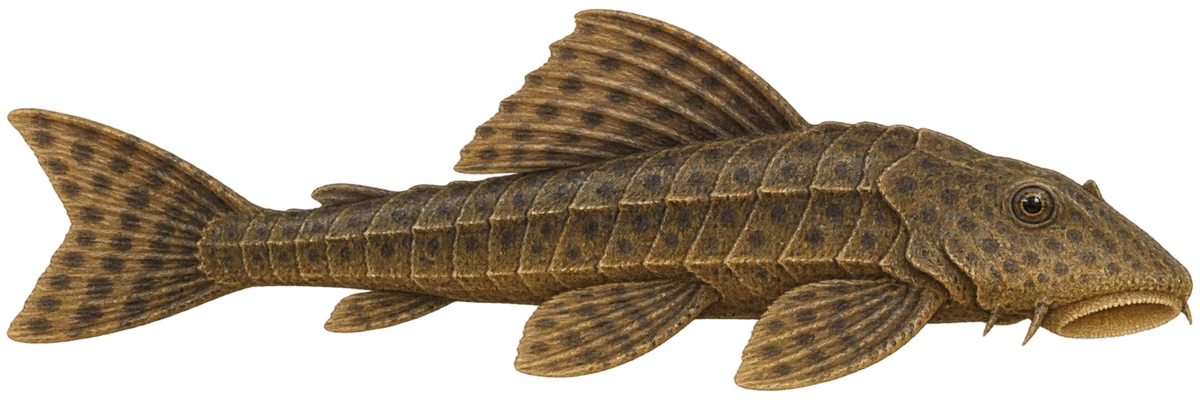
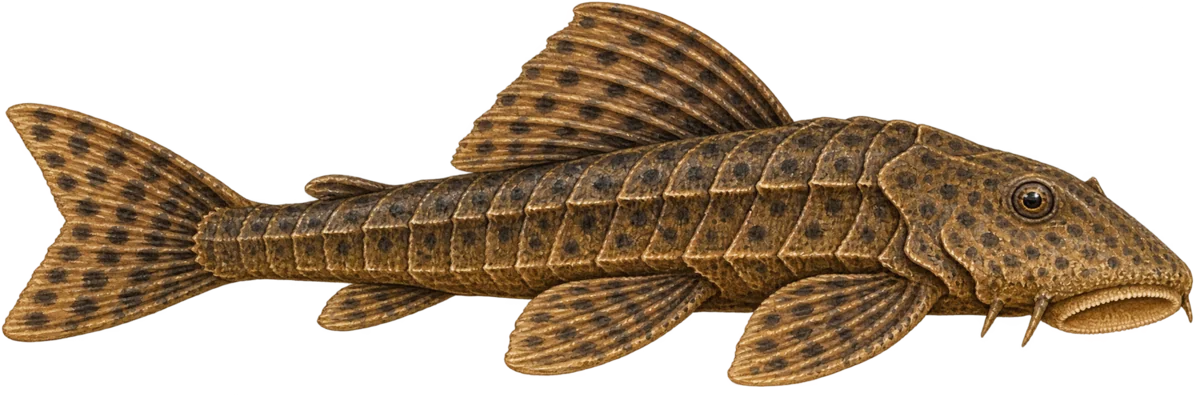
Remove fundos e anima caudas e nado

Changed region(s): [[0.0, 0.0, 1.0, 1.0]]

diff --git a/2026-11-06-lagoa-viva.html b/2026-11-06-lagoa-viva.html
@@ -98,27 +98,16 @@ ctx.save();
   }
   ctx.fillStyle=i%2?'#52764b':'#698751';ctx.beginPath();ctx.ellipse(x+lean,base-h*.72,3.2,1.4,-.2,0,Math.PI*2);ctx.fill();
  }
- // Pescadores desenhados por inteiro na margem, com pernas, calçado e vara apoiada na mão.
+ // Um pescador aparece para todas as espécies; na rota da traíra, três pescadores aumentam a pressão de pesca.
  const spots=anglerSiteFractions(),shirts=['#8b7654','#536f65','#9a694b'],q=clamp(W/300,.9,1.35);
- for(let i=0;i<spots.length;i++){const x=worldW*spots[i]-cameraX,ground=H*.15;if(x<-55||x>W+55)continue;
-  ctx.save();ctx.translate(x,ground);ctx.scale(q,q);
-  ctx.fillStyle='rgba(25,54,44,.25)';ctx.beginPath();ctx.ellipse(0,2,14,3.4,0,0,Math.PI*2);ctx.fill();
-  // A vara parte da mão e acompanha o arremesso do anzol.
-  ctx.strokeStyle='#594a36';ctx.lineWidth=2.2;ctx.lineCap='round';ctx.beginPath();ctx.moveTo(5,-17);ctx.quadraticCurveTo(17,-32,29,-48);ctx.stroke();
-  // Pernas compridas e calças ficam recortadas contra a margem clara.
-  ctx.strokeStyle='#384f48';ctx.lineWidth=3.6;ctx.beginPath();ctx.moveTo(-3,-7);ctx.lineTo(-4,-1);ctx.lineTo(-8,1);ctx.moveTo(3,-7);ctx.lineTo(5,-1);ctx.lineTo(9,1);ctx.stroke();
-  ctx.strokeStyle='#d2b992';ctx.lineWidth=1.3;ctx.beginPath();ctx.moveTo(-8,1);ctx.lineTo(-4,1);ctx.moveTo(5,1);ctx.lineTo(10,1);ctx.stroke();
-  // Camisa, braços e mãos em posição de pesca.
-  ctx.fillStyle=shirts[i];ctx.beginPath();ctx.roundRect(-7,-23,14,17,4);ctx.fill();
-  ctx.strokeStyle='#c99570';ctx.lineWidth=2.7;ctx.lineCap='round';ctx.beginPath();ctx.moveTo(-6,-19);ctx.lineTo(-9,-13);ctx.lineTo(-7,-11);ctx.moveTo(5,-19);ctx.lineTo(7,-17);ctx.stroke();
-  ctx.fillStyle='#c99570';ctx.beginPath();ctx.arc(7,-17,1.8,0,Math.PI*2);ctx.fill();
-  // Pescoço, rosto, orelha e chapéu.
-  ctx.fillStyle='#bb8663';ctx.fillRect(-2.5,-26,4,4);
-  ctx.fillStyle='#c99570';ctx.beginPath();ctx.ellipse(-1,-30,5.2,6,0,0,Math.PI*2);ctx.fill();
-  ctx.fillStyle='#344b43';ctx.beginPath();ctx.arc(-1,-31,5.2,Math.PI,Math.PI*2);ctx.fill();
-  ctx.fillStyle=i===1?'#d5bd8a':'#a17d54';ctx.beginPath();ctx.ellipse(-1,-32,6.2,2.2,0,Math.PI,Math.PI*2);ctx.fill();ctx.fillRect(-7,-31,12,1.6);
-  ctx.fillStyle='#503c30';ctx.beginPath();ctx.arc(1,-30,0.7,0,Math.PI*2);ctx.fill();
-  ctx.restore()
+ for(let i=0;i<spots.length;i++){const x=worldW*spots[i]-cameraX,ground=H*.12;if(x<-55||x>W+55)continue;
+  ctx.save();ctx.translate(x,ground);ctx.scale(q,q);ctx.fillStyle='rgba(25,54,44,.24)';ctx.beginPath();ctx.ellipse(0,2,12,3,0,0,Math.PI*2);ctx.fill();
+  // A vara e o anzol ficam alinhados: o fio só aparece durante o arremesso.
+  ctx.strokeStyle='#594a36';ctx.lineWidth=2.2;ctx.lineCap='round';ctx.beginPath();ctx.moveTo(5,-18);ctx.lineTo(29,-48);ctx.stroke();
+  ctx.fillStyle='#374e48';ctx.beginPath();ctx.arc(-1,-27,5,0,Math.PI*2);ctx.fill();
+  ctx.fillStyle=i===1?'#d5bd8a':'#a17d54';ctx.beginPath();ctx.ellipse(-1,-29,5.6,2.5,0,Math.PI,Math.PI*2);ctx.fill();ctx.fillRect(-7,-28,12,1.6);
+  ctx.fillStyle=shirts[i];ctx.beginPath();ctx.roundRect(-7,-22,14,16,4);ctx.fill();
+  ctx.strokeStyle='#d5bd8a';ctx.lineWidth=2.2;ctx.beginPath();ctx.moveTo(4,-19);ctx.lineTo(7,-16);ctx.lineTo(5,-12);ctx.moveTo(-4,-6);ctx.lineTo(-6,0);ctx.moveTo(3,-6);ctx.lineTo(5,0);ctx.stroke();ctx.restore()
  }
  // Pequenas folhas flutuantes junto à margem, sem formar uma cerca repetitiva.
  for(let i=0;i<6;i++){const x=(i*W/5+W*.08+time*3-cameraX*.62%W+W)%W,y=H*(.177+(i%2)*.004);ctx.fillStyle=i%2?'#477d63':'#578a68';ctx.beginPath();ctx.ellipse(x,y,7,2.5,Math.sin(time+i)*.12,0,Math.PI*2);ctx.fill();ctx.strokeStyle='#b8d7a1';ctx.lineWidth=.7;ctx.beginPath();ctx.moveTo(x,y);ctx.lineTo(x+2,y-1);ctx.stroke()}
@@ -230,26 +219,35 @@ const fishArt={lambari:new Image(),traira:new Image(),cascudo:new Image()};
 const fishArtPaths={lambari:'game-assets/lambari.webp',traira:'game-assets/traira.webp',cascudo:'game-assets/cascudo.webp'};
 const birdArt=new Image();birdArt.decoding='async';birdArt.src='game-assets/martim-pescador.webp';
 for(const [kind,art] of Object.entries(fishArt)){art.decoding='async';art.src=fishArtPaths[kind]}
+function drawAnimatedTail(context,x,y,w,h,kind,phase){
+ context.save();context.translate(x,y);context.rotate(Math.sin(phase)*.52);
+ const colors=kind==='lambari'?['#dc7951','#efaa77','#bb7154']:kind==='traira'?['#59634a','#89906b','#4b5742']:['#554d3d','#897b5e','#464338'];
+ const fin=context.createLinearGradient(-w*.30,0,0,0);fin.addColorStop(0,colors[0]);fin.addColorStop(.6,colors[1]);fin.addColorStop(1,colors[2]);
+ context.beginPath();
+ if(kind==='traira'){
+  context.moveTo(0,0);context.quadraticCurveTo(-w*.08,-h*.14,-w*.19,-h*.29);context.quadraticCurveTo(-w*.24,-h*.36,-w*.25,-h*.19);context.quadraticCurveTo(-w*.26,-h*.03,-w*.22,0);context.quadraticCurveTo(-w*.26,h*.03,-w*.25,h*.19);context.quadraticCurveTo(-w*.24,h*.36,-w*.19,h*.29);context.quadraticCurveTo(-w*.08,h*.14,0,0)
+ }else{
+  const span=kind==='lambari'?.30:.28,bulge=kind==='lambari'?.34:.31,notch=kind==='lambari'?.14:.13;
+  context.moveTo(0,0);context.quadraticCurveTo(-w*.07,-h*.17,-w*.20,-h*bulge);context.quadraticCurveTo(-w*.18,-h*.20,-w*notch,-h*.085);context.quadraticCurveTo(-w*.23,-h*.17,-w*span,-h*.27);context.quadraticCurveTo(-w*.27,-h*.08,-w*.29,0);context.quadraticCurveTo(-w*.27,h*.08,-w*span,h*.27);context.quadraticCurveTo(-w*.23,h*.17,-w*notch,h*.085);context.quadraticCurveTo(-w*.18,h*.20,-w*.20,h*bulge);context.quadraticCurveTo(-w*.07,h*.17,0,0)
+ }
+ context.closePath();context.fillStyle=fin;context.fill();context.strokeStyle=kind==='lambari'?'rgba(93,66,46,.72)':'rgba(42,49,35,.72)';context.lineWidth=Math.max(.7,h*.035);context.stroke();
+ context.strokeStyle=kind==='lambari'?'rgba(255,226,178,.76)':'rgba(216,202,151,.65)';context.lineWidth=Math.max(.45,h*.018);
+ for(const side of [-1,1])for(let k=1;k<=3;k++){context.beginPath();context.moveTo(-w*.025,side*h*.018);context.quadraticCurveTo(-w*.10,side*h*.07*k,-w*(.15+k*.035),side*h*(.085+k*.055));context.stroke()}
+ context.restore()
+}
 function drawFish(x,y,dir,color,r=20,type='player',tilt=0,context=ctx){
  const kind=type==='predator'?'traira':type==='prey'?'lambari':type,art=fishArt[kind];
  if(!art||!art.complete||!art.naturalWidth)return drawFishVector(x,y,dir,color,r,type,tilt,context);
  context.save();context.translate(x,y);context.scale(dir||1,1);context.rotate(tilt+Math.sin(time*7.2+x*.018)*.025);
  const h=r*(kind==='lambari'?1.38:kind==='traira'?1.42:1.48),w=h*art.naturalWidth/art.naturalHeight;
- if(kind==='lambari'){
-  const pivot=-w*.245,tailBeat=Math.sin(time*15.5+x*.11)*.48;
-  context.save();context.translate(pivot,0);context.rotate(tailBeat);
-  const fin=context.createLinearGradient(-w*.30,0,0,0);fin.addColorStop(0,'#dc7951');fin.addColorStop(.58,'#efaa77');fin.addColorStop(1,'#bb7154');
-  context.beginPath();context.moveTo(0,0);context.quadraticCurveTo(-w*.07,-h*.17,-w*.20,-h*.34);context.quadraticCurveTo(-w*.18,-h*.20,-w*.14,-h*.085);context.quadraticCurveTo(-w*.22,-h*.17,-w*.30,-h*.27);context.quadraticCurveTo(-w*.27,-h*.09,-w*.29,0);context.quadraticCurveTo(-w*.27,h*.09,-w*.30,h*.27);context.quadraticCurveTo(-w*.22,h*.17,-w*.14,h*.085);context.quadraticCurveTo(-w*.18,h*.20,-w*.20,h*.34);context.quadraticCurveTo(-w*.07,h*.17,0,0);context.closePath();
-  context.fillStyle=fin;context.fill();context.strokeStyle='rgba(93,66,46,.72)';context.lineWidth=Math.max(.7,h*.035);context.stroke();
-  context.strokeStyle='rgba(255,226,178,.72)';context.lineWidth=Math.max(.45,h*.018);
-  for(const side of [-1,1])for(let k=1;k<=3;k++){context.beginPath();context.moveTo(-w*.025,side*h*.018);context.quadraticCurveTo(-w*.10,side*h*.07*k,-w*(.15+k*.035),side*h*(.085+k*.055));context.stroke()}
-  context.restore();
-  context.save();context.beginPath();context.rect(pivot,-h*.62,w*.78,h*1.24);context.clip();
-  context.shadowColor='rgba(14,38,31,.38)';context.shadowBlur=type==='player'?Math.max(2,r*.22):1;
-  context.drawImage(art,-w*.5,-h*.5,w,h);context.restore();
+ if(['lambari','traira','cascudo'].includes(kind)){
+  const pivotFraction=kind==='lambari'?.255:kind==='traira'?.16:.18,pivot=-w*.5+w*pivotFraction;
+  drawAnimatedTail(context,pivot,0,w,h,kind,time*(kind==='lambari'?15.5:kind==='traira'?10.5:12)+x*.11);
+  context.save();context.beginPath();context.rect(pivot,-h*.64,w*.80,h*1.28);context.clip();
+  context.shadowColor='rgba(14,38,31,.4)';context.shadowBlur=type==='player'?Math.max(2,r*.24):1.2;
+  context.drawImage(art,-w*.5,-h*.5,w,h);context.restore()
  }else{
-  context.shadowColor='rgba(14,38,31,.42)';context.shadowBlur=type==='player'?Math.max(2,r*.28):1.3;
-  context.drawImage(art,-w*.5,-h*.5,w,h)
+  context.shadowColor='rgba(14,38,31,.42)';context.shadowBlur=type==='player'?Math.max(2,r*.28):1.3;context.drawImage(art,-w*.5,-h*.5,w,h)
  }
  context.restore()
 }
@@ -299,7 +297,7 @@ for(const p of predators){if(p.type==='predator'){
  }else if(p.state==='return'){
   dx=p.lair.x-p.x;dy=p.lair.y-p.y;dist=Math.hypot(dx,dy)||1;const retreatSpeed=stageIndex===2?150:125;p.vx+=(dx/dist*retreatSpeed-p.vx)*(1-Math.pow(.002,dt));p.vy+=(dy/dist*retreatSpeed-p.vy)*(1-Math.pow(.002,dt));p.x=clamp(p.x+p.vx*dt,20,worldW-20);p.y=clamp(p.y+p.vy*dt,H*.19+p.r*.8,H*.84-p.r*.65);if(dist<15){p.x=p.lair.x;p.y=p.lair.y;p.vx=0;p.vy=0;p.state='waiting';p.cooldown=rand(stageIndex===2?1.0:1.5,stageIndex===2?2.4:3.4)}}
  else {p.x=p.lair.x;p.y=p.lair.y;p.vx=0;p.vy=0}
- if(p.state!=='waiting')drawFish(p.x-cameraX,p.y,Math.sign(p.vx)||-1,'#c69a6c',p.r,'predator',Math.sin(time*5)*.08);
+ if(p.state!=='waiting')drawFish(p.x-cameraX,p.y,Math.sign(p.vx)||-1,'#c69a6c',p.r,'predator',clamp(Math.atan2(p.vy,Math.max(16,Math.abs(p.vx))),-.88,.88)+Math.sin(time*5)*.035);
  }else if(p.type==='rival'){
   p.sated=Math.max(0,p.sated-dt);p.wander-=dt;if(p.wander<=0){p.phase+=rand(-.9,.9);p.wander=rand(.7,1.7)}
   let target=null,best=250;
@@ -308,16 +306,16 @@ for(const p of predators){if(p.type==='predator'){
   const spd=target?(stageIndex===2?118:96):34;p.vx+=(dx/dist*spd-p.vx)*(1-Math.pow(.012,dt));p.vy+=(dy/dist*spd-p.vy)*(1-Math.pow(.012,dt));
   p.x=clamp(p.x+p.vx*dt,20,worldW-20);p.y=clamp(p.y+p.vy*dt,H*.19+p.r*.8,H*.84-p.r*.65);
   if(target&&Math.hypot(target.x-p.x,target.y-p.y)<p.r+10){target.taken=true;p.sated=rand(3.5,5.5);rivalFeeds++;updateFoodWeb('rival');showToast('Outra traíra capturou uma presa.')}
-  drawFish(p.x-cameraX,p.y,Math.sign(p.vx)||-1,'#a8b17b',p.r,'traira',Math.sin(time*3.1+p.phase)*.04)
+  drawFish(p.x-cameraX,p.y,Math.sign(p.vx)||-1,'#a8b17b',p.r,'traira',clamp(Math.atan2(p.vy,Math.max(16,Math.abs(p.vx))),-.88,.88)+Math.sin(time*3.1+p.phase)*.025)
  }else{
-  const dx=fish.x-p.x,dy=fish.y-p.y,dist=Math.hypot(dx,dy)||1;p.wander-=dt;if(p.wander<=0){p.phase+=rand(-1.2,1.2);p.wander=rand(.5,1.5)}const flee=dist<280&&fish.hideTimer<=0,ux=flee?-dx/dist:Math.cos(p.phase),uy=flee?-dy/dist:Math.sin(p.phase);const spd=flee?105:44;p.vx+=(ux*spd-p.vx)*(1-Math.pow(.02,dt));p.vy+=(uy*spd-p.vy)*(1-Math.pow(.02,dt));p.x=clamp(p.x+p.vx*dt,20,worldW-20);p.y=clamp(p.y+p.vy*dt,H*.19+p.r*.8,H*.84-p.r*.65);if(Math.hypot(fish.x-p.x,fish.y-p.y)<fish.r+p.r&&selected==='traira'){p.x=rand(worldW*.48,worldW*.8);p.y=rand(H*.25,H*.78);p.vx=0;p.vy=0;score++;stageFood++;updateFoodWeb('prey');fish.energy=clamp(fish.energy+24,0,100);fish.stress=clamp(fish.stress-8,0,100);playTone(640,.12);showToast('Presa capturada · energia recuperada')}drawFish(p.x-cameraX,p.y,Math.sign(p.vx)||-1,'#f6d28a',p.r,'prey',Math.sin(time*3)*.08)
+  const dx=fish.x-p.x,dy=fish.y-p.y,dist=Math.hypot(dx,dy)||1;p.wander-=dt;if(p.wander<=0){p.phase+=rand(-1.2,1.2);p.wander=rand(.5,1.5)}const flee=dist<280&&fish.hideTimer<=0,ux=flee?-dx/dist:Math.cos(p.phase),uy=flee?-dy/dist:Math.sin(p.phase);const spd=flee?105:44;p.vx+=(ux*spd-p.vx)*(1-Math.pow(.02,dt));p.vy+=(uy*spd-p.vy)*(1-Math.pow(.02,dt));p.x=clamp(p.x+p.vx*dt,20,worldW-20);p.y=clamp(p.y+p.vy*dt,H*.19+p.r*.8,H*.84-p.r*.65);if(Math.hypot(fish.x-p.x,fish.y-p.y)<fish.r+p.r&&selected==='traira'){p.x=rand(worldW*.48,worldW*.8);p.y=rand(H*.25,H*.78);p.vx=0;p.vy=0;score++;stageFood++;updateFoodWeb('prey');fish.energy=clamp(fish.energy+24,0,100);fish.stress=clamp(fish.stress-8,0,100);playTone(640,.12);showToast('Presa capturada · energia recuperada')}drawFish(p.x-cameraX,p.y,Math.sign(p.vx)||-1,'#f6d28a',p.r,'prey',clamp(Math.atan2(p.vy,Math.max(16,Math.abs(p.vx))),-.82,.82)+Math.sin(time*3)*.03)
  }}
 for(const p of predators)if(p.type==='predator'&&p.state==='waiting'&&Math.hypot(fish.x-p.lair.x,fish.y-p.lair.y)<fish.r+p.r+9&&fish.invuln<=0){fish.stress=clamp(fish.stress+3*dt,0,100)}
 if(inRefuge){if(stageFood>=s.goal){stageClear()}else if(!refugeHint){refugeHint=true;showToast(`Coma ${s.goal-stageFood} alimento(s) adequado(s) para entrar no refúgio.`)}}else refugeHint=false;if(fish.health<=0){stageClear()}
 if(Math.random()<dt*1.2)splash(rand(0,W),H+2,1,'#bff7ed');if(Math.random()<dt*.07)splash(rand(0,W),H+2,1,'#bff7ed');hud()}}
 function hideInCover(){if(mode!=='playing'||!fish)return;if(hideCooldown>0){showToast('A camuflagem está se recuperando.');return}const spot=coverSpots.find(s=>Math.hypot(fish.x-s.x,fish.y-s.y)<s.r);const log=logs.find(l=>Math.abs(fish.x-l.x)<l.len*.58&&Math.abs(fish.y-l.y)<36);if(!spot&&!log){showToast('Aproxime-se de um tronco ou das raízes do aguapé.');return}fish.hideTimer=3.5;fish.blend=log?'wood':'roots';hideCooldown=4.5;hideUsed=true;splash(fish.x,fish.y,8,log?'#9c8964':'#b8f1c0');showToast(log?'Camuflado com o tronco!':'Camuflado nas raízes!');}function useAbility(){if(mode!=='playing'||!fish)return;if(selected==='cascudo'){const log=logs.find(l=>Math.abs(fish.x-l.x)<l.len*.58&&Math.abs(fish.y-l.y)<36);if(!log){showToast('Aproxime-se de um tronco para aderir.');return}fish.blend='wood';fish.hideTimer=4;hideCooldown=Math.max(hideCooldown,4.5);hideUsed=true;showToast('Cascudo aderido: biofilme e perifíton ao alcance.');return}boost=.78;splash(fish.x-fish.dir*14,fish.y,6,selected==='traira'?'#d7d2a0':'#d4ffcf');showToast(selected==='traira'?'Bote! Aproxime-se de um peixe menor.':'Arrancada! Use-a para escapar da traíra.')}function updateAbilityButton(){const b=$('boostBtn');if(!b)return;b.textContent=selected==='cascudo'?'⌁':'»';b.setAttribute('aria-label',species[selected].ability);b.title=species[selected].ability}function stageClear(){if(mode!=='playing')return;finishStage()}
 function updateShoal(dt){if(!fish||selected!=='lambari'||mode!=='playing')return;const claimed=new Set();for(let i=0;i<shoalFish.length;i++){const m=shoalFish[i];let target=null,best=W*.85;for(const it of items){if(it.taken||it.kind!=='zooplankton'||claimed.has(it))continue;const d=Math.hypot(it.x-m.x,it.y-m.y);if(d<best){best=d;target=it}}let gx,gy;if(target){claimed.add(target);gx=target.x;gy=target.y}else{const a=time*.62+m.phase;gx=fish.x+Math.cos(a)*W*.17;gy=fish.y+Math.sin(a*1.23)*H*.10}const dx=gx-m.x,dy=gy-m.y,d=Math.hypot(dx,dy)||1,speed=target?145:112,step=Math.min(d,speed*dt),follow=1-Math.pow(.004,dt);if(target){m.x+=dx/d*step;m.y+=dy/d*step;m.vx=dx/d*speed}else{m.x+=(gx-m.x)*follow;m.y+=(gy-m.y)*follow;m.vx=dx}m.x=clamp(m.x,16,worldW-18);m.y=clamp(m.y,H*.20,H*.78);if(target&&Math.hypot(m.x-target.x,m.y-target.y)<m.r+10&&!target.taken){target.taken=true;score++;stageFood++;fish.energy=clamp(fish.energy+7,0,100);fish.stress=clamp(fish.stress-1,0,100);updateFoodWeb('zooplankton');if(!ecologySeen.zooplankton){ecologySeen.zooplankton=true;showEcology('zooplankton')}}}}
-function draw(){const dt=Math.min(.05,(performance.now()-last)/1000||0);last=performance.now();if($('ecologyPop').classList.contains('hidden'))time+=dt;drawBackground(dt);drawItems();updateShoal(dt);if(fish&&selected==='lambari'){for(const m of shoalFish)drawFish(m.x-cameraX,m.y,Math.sign(m.vx||fish.dir),species.lambari.color,m.r,'lambari',clamp(Math.atan2(m.vy,Math.max(14,Math.abs(m.vx))),-.8,.8)+Math.sin(time*3+m.phase)*.018)}if(fish){let inv=fish.invuln>0&&Math.floor(time*14)%2;ctx.globalAlpha=fish.hideTimer>0?(fish.blend==='wood'?.24:.38):inv?.48:1;const s=species[selected];drawFish(fish.x-cameraX,fish.y,fish.dir,s.color,fish.r,selected,clamp(Math.atan2(fish.vy,Math.max(16,Math.abs(fish.vx))),-.98,.98)+Math.sin(time*2.8)*.018);ctx.globalAlpha=1;if(mode==='playing')tick(dt)}drawThreats();if(mode==='menu'){for(let i=0;i<menuSwimmers.length;i++){const m=menuSwimmers[i];m.x+=m.v*dt;if(m.x>W+45)m.x=-45;const y=H*(m.y+Math.sin(time*1.2+i*1.7)*.025);drawFish(m.x,y,1,species[m.kind].color,m.r,m.kind,Math.sin(time*2+i)*.035)}}requestAnimationFrame(draw)}requestAnimationFrame(draw);
+function draw(){const dt=Math.min(.05,(performance.now()-last)/1000||0);last=performance.now();if($('ecologyPop').classList.contains('hidden'))time+=dt;drawBackground(dt);drawItems();updateShoal(dt);if(fish&&selected==='lambari'){for(const m of shoalFish)drawFish(m.x-cameraX,m.y,Math.sign(m.vx||fish.dir),species.lambari.color,m.r,'lambari',Math.sin(time*3+m.phase)*.045)}if(fish){let inv=fish.invuln>0&&Math.floor(time*14)%2;ctx.globalAlpha=fish.hideTimer>0?(fish.blend==='wood'?.24:.38):inv?.48:1;const s=species[selected];drawFish(fish.x-cameraX,fish.y,fish.dir,s.color,fish.r,selected,Math.sin(time*2.8)*.035);ctx.globalAlpha=1;if(mode==='playing')tick(dt)}drawThreats();if(mode==='menu'){for(let i=0;i<menuSwimmers.length;i++){const m=menuSwimmers[i];m.x+=m.v*dt;if(m.x>W+45)m.x=-45;const y=H*(m.y+Math.sin(time*1.2+i*1.7)*.025);drawFish(m.x,y,1,species[m.kind].color,m.r,m.kind,Math.sin(time*2+i)*.035)}}requestAnimationFrame(draw)}requestAnimationFrame(draw);
 function playTone(freq,dur){if(!sound)return;try{audio=audio||new(window.AudioContext||window.webkitAudioContext)();const o=audio.createOscillator(),g=audio.createGain();o.frequency.value=freq;o.type='sine';g.gain.setValueAtTime(.04,audio.currentTime);g.gain.exponentialRampToValueAtTime(.001,audio.currentTime+dur);o.connect(g);g.connect(audio.destination);o.start();o.stop(audio.currentTime+dur)}catch{}}
 window.addEventListener('keydown',e=>{const k=e.key.toLowerCase();if(['arrowup','arrowdown','arrowleft','arrowright',' '].includes(k))e.preventDefault();if(k==='escape'){pause();return}if(k==='h'){hideInCover();return}if(k===' '&&mode==='playing'){useAbility()}keys[k]=true});window.addEventListener('keyup',e=>keys[e.key.toLowerCase()]=false);window.addEventListener('blur',()=>{keys={};touchDirs={}});
 document.querySelectorAll('[data-dir]').forEach(b=>{const d=b.dataset.dir,down=e=>{e.preventDefault();b.setPointerCapture?.(e.pointerId);touchDirs[d]=true},up=e=>{e.preventDefault();touchDirs[d]=false};b.addEventListener('pointerdown',down);['pointerup','pointercancel','lostpointercapture'].forEach(ev=>b.addEventListener(ev,up))});$('boostBtn').addEventListener('pointerdown',e=>{e.preventDefault();useAbility()});$('hideBtn').addEventListener('pointerdown',e=>{e.preventDefault();hideInCover()});$('ecoOpen').onclick=()=>showEcology('biofilm',true);$('ecoClose').onclick=closeEcology;document.querySelectorAll('[data-eco]').forEach(b=>b.onclick=()=>showEcology(b.dataset.eco,true));$('pauseBtn').onclick=pause;$('helpBtn').onclick=help;$('soundBtn').onclick=()=>{sound=!sound;$('soundLabel').textContent='Som: '+(sound?'on':'off');if(sound)playTone(440,.08)};let canvasPointer=null;function steerFromPointer(e){if(!fish)return;const r=canvas.getBoundingClientRect(),dx=e.clientX-r.left+cameraX-fish.x,dy=e.clientY-r.top-fish.y;keys={};if(Math.abs(dx)>22)keys[dx>0?'d':'a']=true;if(Math.abs(dy)>22)keys[dy>0?'s':'w']=true}canvas.addEventListener('pointerdown',e=>{if(mode!=='playing')return;e.preventDefault();canvasPointer=e.pointerId;canvas.setPointerCapture?.(e.pointerId);steerFromPointer(e)});canvas.addEventListener('pointermove',e=>{if(e.pointerId===canvasPointer&&mode==='playing')steerFromPointer(e)});function endCanvasPointer(e){if(e.pointerId!==canvasPointer)return;canvasPointer=null;keys={}}canvas.addEventListener('pointerup',endCanvasPointer);canvas.addEventListener('pointercancel',endCanvasPointer);canvas.addEventListener('lostpointercapture',endCanvasPointer);
